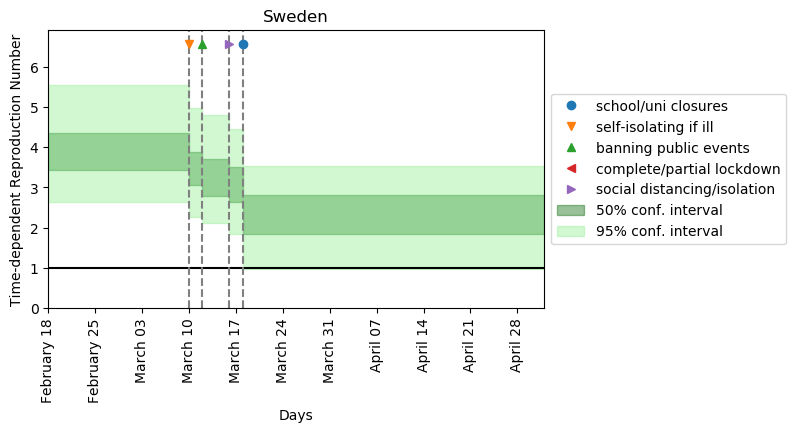
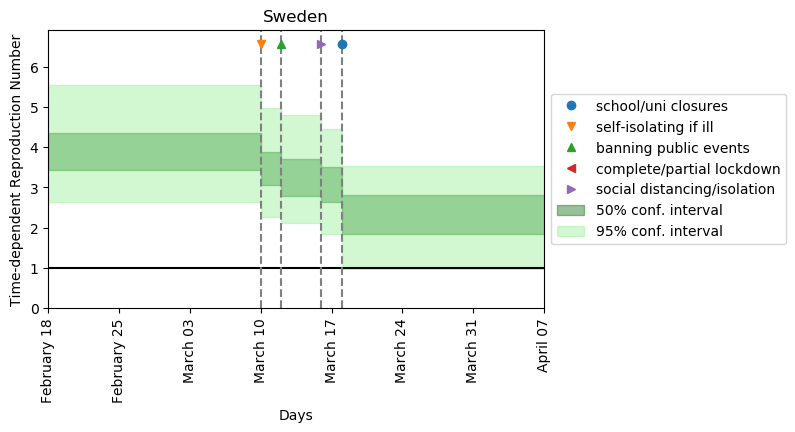
cut plot at April 7th

diff --git a/scripts/plot_rt.py b/scripts/plot_rt.py
@@ -17,7 +17,9 @@ def plot_rt_europe(simulation_file, interventions_file, country_number, country_
     simulation_data = pd.read_csv(simulation_file, delimiter=';', index_col=0)
     interventions, interventions_data = get_interventions_europe(interventions_file)
     interventions_data = interventions_data[interventions_data['Country'] == country_name]
-    time_data = list(pd.date_range(start=start_date, periods=num_days))
+    #time_data = list(pd.date_range(start=start_date, periods=num_days))
+    time_data = list(pd.date_range(start=start_date, end='04/07/20'))
+    num_days = len(time_data)
     # remove those interventions, that are not considered in the report
     interventions.remove('sport')
     interventions.remove('travel_restrictions')
@@ -34,13 +36,13 @@ def plot_rt_europe(simulation_file, interventions_file, country_number, country_
     plt.hlines(1, time_data[0], time_data[-1])
 
     # 50% conf interval
-    upper = Rt_data['75%']
-    lower = Rt_data['25%']
+    upper = Rt_data['75%'][:num_days]
+    lower = Rt_data['25%'][:num_days]
     plt.fill_between(time_data, lower, upper, step='post', alpha=0.4, color='darkgreen', label='50% conf. interval')
 
     # 95% conf interval
-    upper = Rt_data['97.5%']
-    lower = Rt_data['2.5%']
+    upper = Rt_data['97.5%'][:num_days]
+    lower = Rt_data['2.5%'][:num_days]
     plt.fill_between(time_data, lower, upper, step='post', alpha=0.4, color='lightgreen', label='95% conf. interval')
 
     init_height = 1.2 * plt.gca().get_ylim()[1]
@@ -92,7 +94,9 @@ def plot_rt_US(simulation_file, interventions_file, county_number, fips, start_d
     simulation_data = pd.read_csv(simulation_file, delimiter=';', index_col=0)
     interventions, interventions_data = get_interventions_US(interventions_file)
     interventions_data = interventions_data[interventions_data['FIPS'] == fips]
-    time_data = list(pd.date_range(start=start_date, periods=num_days))
+    # time_data = list(pd.date_range(start=start_date, periods=num_days))
+    time_data = list(pd.date_range(start=start_date, end='04/07/20'))
+    num_days = len(time_data)
     # remove those interventions, that are not considered in the report
     interventions.remove('foreign travel ban')
 
@@ -107,13 +111,13 @@ def plot_rt_US(simulation_file, interventions_file, county_number, fips, start_d
     plt.hlines(1, time_data[0], time_data[-1])
 
     # 50% conf interval
-    upper = Rt_data['75%']
-    lower = Rt_data['25%']
+    upper = Rt_data['75%'][:num_days]
+    lower = Rt_data['25%'][:num_days]
     plt.fill_between(time_data, lower, upper, step='post', alpha=0.4, color='darkgreen', label='50% conf. interval')
 
     # 95% conf interval
-    upper = Rt_data['97.5%']
-    lower = Rt_data['2.5%']
+    upper = Rt_data['97.5%'][:num_days]
+    lower = Rt_data['2.5%'][:num_days]
     plt.fill_between(time_data, lower, upper, step='post', alpha=0.4, color='lightgreen', label='95% conf. interval')
 
     init_height = 1.2 * plt.gca().get_ylim()[1]
@@ -239,7 +243,7 @@ if __name__ == '__main__':
     country_numbers = np.arange(1, len(country_list) + 1)
 
     for country_ind, country_name, date in zip(country_numbers, country_list, start_dates):
-        plot_rt_europe(simulation_file, interventions_file, country_ind, country_name, date, save_img=False)
+        plot_rt_europe(simulation_file, interventions_file, country_ind, country_name, date, save_img=True)
 
     ### USA ###
     simulation_file = r'results\US_summary.csv'
@@ -253,7 +257,7 @@ if __name__ == '__main__':
     county_numbers = np.arange(1, len(fips_list) + 1)
 
     for county, fips, date in zip(county_numbers, fips_list, start_dates):
-        plot_rt_US(simulation_file, interventions_file, county, fips, date, save_img=False)
+        plot_rt_US(simulation_file, interventions_file, county, fips, date, save_img=True)
 
 
 
